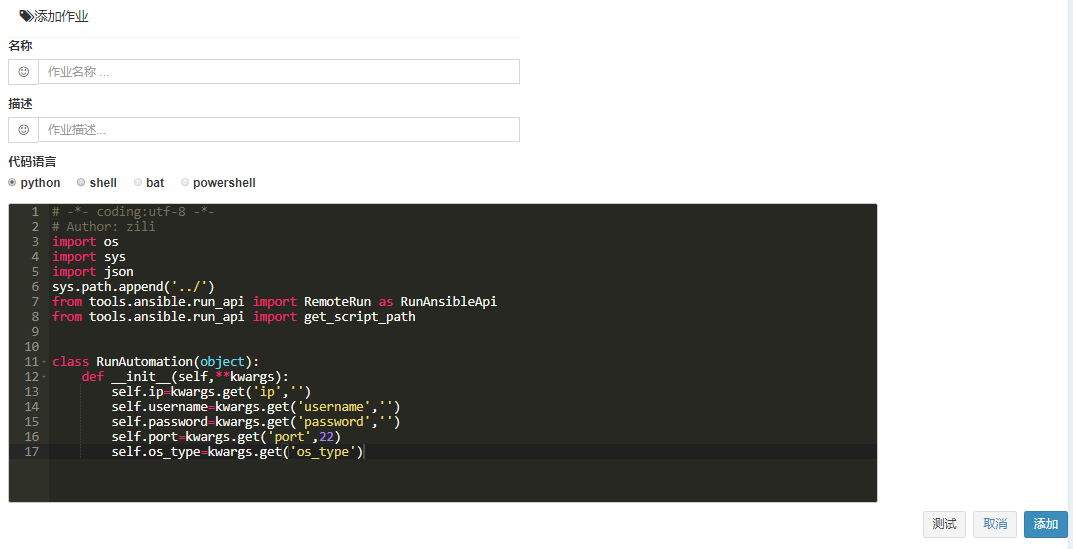
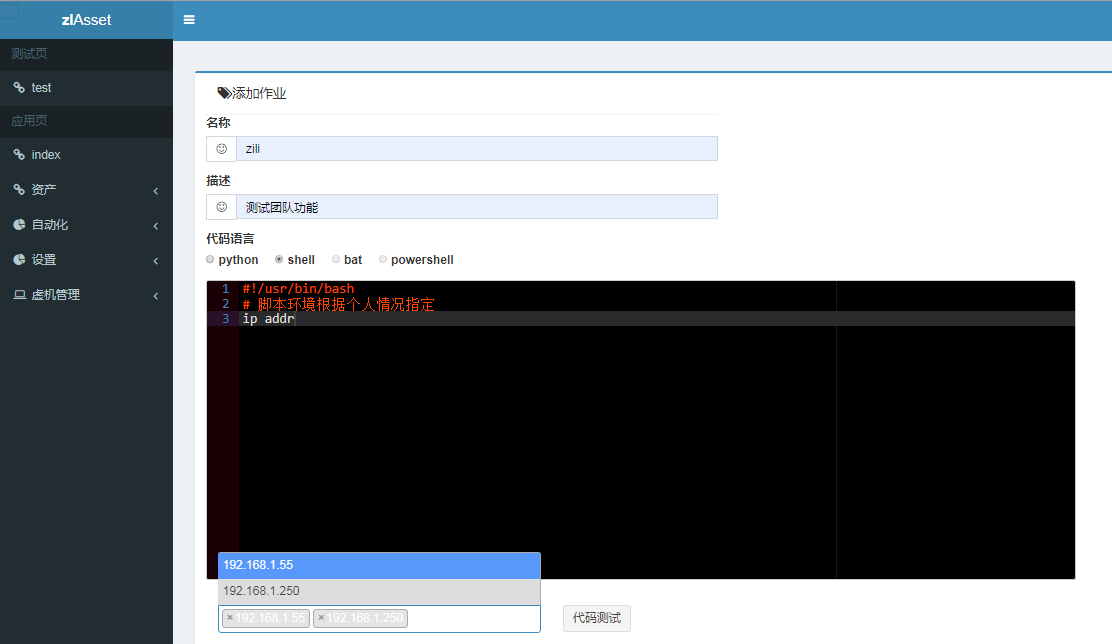
脚本测试-完成

diff --git a/zlAsset/templates/automation/test_job.html b/zlAsset/templates/automation/test_job.html
@@ -7,91 +7,42 @@
     border:0;
     background-color:transparent;
     outline: none;
-    outline: none;
+    resize:none;
     color: #666464;
     height: auto;
-    width:80%;
+    width:98%;
     height:300px;
+    max-height:400px
   }
 </style>
-<div class="col-md-12">
-    <div class="box box-primary">
-    <div class="row">
-      <form role="form" id='job_form' action="#" method="post">{% csrf_token %}
-        <!-- >基本信息 -->
-        <div class="col-md-12">
-          <div class="col-md-10">
-            <div class="modal-header">
-              <h4 class="modal-title"><i class="fa fa-tags"></i>脚本测试</h4>
+
+<div class="col-md-10">
+  <!-- /.box-header -->
+  <div class="box-body">
+    <div class="box-group" id="#accordion">
+  {% for os in res %}
+      <div class="panel box box-primary">
+        <div class="box-header with-border">
+          <h4 class="box-title">
+            <a data-toggle="collapse" data-parent="#accordion" href=#{{ forloop.counter }}>
+            {{ os.ip }}
+            </a>
+          </h4>
+        </div>
+        <div id="{{ forloop.counter }}" class="panel-collapse collapse">
+          <div class="box-body">
+            <div >
+              <pre>
+                  <textarea readonly="readonly" class="col-md-12">{{ os.result }}</textarea>
+              </pre>
             </div>
-             <div class="form-group">
-                <label>名称</label>
-                <div class="input-group">
-                  <div class="input-group-addon">
-                    <i class="fa fa-smile-o"></i>
-                  </div>
-                  <input type="text" class="form-control" placeholder="作业名称 ..."  value="{{ job_name }}" name="name">
-                </div>
-              </div>
-
-              <div class="form-group">
-                <label>描述</label>
-                <div class="input-group">
-                  <div class="input-group-addon">
-                    <i class="fa fa-smile-o"></i>
-                  </div>
-                  <input type="text" class="form-control" placeholder="作业描述..."  value="{{ job_description }}" name="description">
-                </div>
-              </div>
-            <!--  脚本名称 -->
-              <input type="text"  style="display:none;" value="{{ job_script_name }}" name="script_name">
-
-              <div class="form-group" >
-                <label>目标主机</label>
-                <select id='host' class="form-control select2" multiple="multiple" data-placeholder="选择主机..."
-                        style="width: 100%;">
-                  <option disabled>Alabama</option>
-                  <option>Alaska</option>
-                  <option>California</option>
-                  <option>Delaware</option>
-                  <option>Delaware2</option>
-                  <option>Delaware3</option>
-                  <option>Delaware4</option>
-                  <option>Delaware5</option>
-                  <option>Delaware6</option>
-                  <option>Delaware7</option>
-                  <option>Delaware8</option>
-                  <option>Delaware9</option>
-                  <option>Delaware0</option>
-                  <option>Delaware11</option>
-                  <option>Delaware12</option>
-                  <option>Delaware13</option>
-
-                  <option>Tennessee</option>
-                  <option>Texas</option>
-                  <option>Washington</option>
-                </select>
-                <button class="btn btn-default" onclick='return job_run();'><a href="{% url 'atuomation_index' %}" target="_self" >执行</a></button>
-              </div>
           </div>
-      <!--代码-->
-              <div >
-                <label><font color="red">取消前请复制脚本内容,否则,将丢失</font></label><p>
-                <pre>
-                    <textarea id='script_content' name="script_content" form='job_form' readonly="readonly" class="col-md-10">{{ job_script_content }}</textarea>
-                </pre>
-              </div>
         </div>
-        <div class="modal-footer">
-            <button class="btn btn-default"><a href="{% url 'atuomation_index' %}" target="_self">取消</a></button>
-            <input type="submit" value="创建" name="create" class="btn btn-primary" >
-        </div>
-      </form>
-
-      <!-- <pre style="display:none;"> -->
-
+      </div>
     </div>
-    </div>
+  {% endfor %}
+
+  </div>
 </div>
 
 {% endblock %}

diff --git a/zlAsset/templates/automation/job_detail.html b/zlAsset/templates/automation/job_detail.html
@@ -8,16 +8,17 @@
     border:0;
     background-color:transparent;
     outline: none;
-    outline: none;
+    resize:none;
     color: #666464;
     height: auto;
-    width:80%;
+    width:98%;
     height:300px;
+    max-height:400px
   }
 </style>
 <div >
   <pre>
-      <textarea style='height:600px; max-height:600px; width:98%;' name="script_content" readonly="readonly" class="col-md-12">{{ jobs_data.script_content }}</textarea>
+      <textarea name="script_content" readonly="readonly" class="col-md-12">{{ jobs_data.script_content }}</textarea>
   </pre>
 </div>
 

diff --git a/zlAsset/apps/automation/views.py b/zlAsset/apps/automation/views.py
@@ -39,7 +39,6 @@ def add_job(request):
         logger.error('DB search error')
 @login_required(login_url='/login/')
 def add_job_action(request):
-    logger.info("一个更萌的请求过来了。。。。")
     if request.method == 'POST':
         name=request.POST['name']
         description=request.POST['description']
@@ -53,7 +52,7 @@ def add_job_action(request):
         if language == 'powershell':
             postfix = '.ps1'
         script_content=request.POST['script_content']
-        job_script_path=script_path()+'automation/jobs/test/'
+        job_script_path=script_path()+'automation/jobs/'
         # 随机22个字符串
         random_name = ''.join(random.choice(string.ascii_letters + string.digits) for _ in range(22))
         script_name = random_name+language+postfix
@@ -89,7 +88,6 @@ def add_job_action(request):
 
 
 def test_job(request):
-    print('tttttttttttttttttttt=================')
     if request.method == 'POST':
         name=request.POST['name']
         description=request.POST['description']
@@ -104,25 +102,30 @@ def test_job(request):
             postfix = '.ps1'
         host=request.POST.getlist('host')
 
-        print(name)
-        print(description)
-        print(language)
-        print(host)
-
-
         script_content=request.POST['script_content']
         job_script_path=script_path()+'automation/jobs/test/'
          # 随机22个字符串
-        random_name = ''.join(random.choice(string.ascii_letters + string.digits) for _ in range(22))
+        random_name = ''.join(random.choice(string.ascii_letters + string.digits) for _ in range(3))
         script_name = random_name+language+postfix
-
-        with open(job_script_path+script_name,'w+') as f:
+        with open(job_script_path+script_name,'w+', encoding="utf-8") as f:
+            script_content=script_content.replace('\r\n', '\n')
             f.writelines(script_content)
+
+        res=list()
+        for ip in host:
+            cert_data=osCert.objects.get(ip=ip)
+            test_conn=RunAutomation(
+                ip = cert_data.ip,
+                username = cert_data.username,
+                password = bytes.decode(base64.b64decode(bytes(cert_data.password,encoding='utf-8'))),
+                os_type = cert_data.os_type,
+                port=cert_data.port
+                )
+            jobs_data = test_conn.test_job(script_name)
+            jobs_data['ip'] =ip
+            res.append(jobs_data)
         return render(request,'automation/test_job.html',{
-            'job_name':name,
-            'job_description':description,
-            'job_script_content':script_content,
-            'job_script_name':script_name
+            'res':res,
         })
     else:
         jobs_data =Jobs.objects.all()

diff --git a/zlAsset/apps/tools/ansible/run_api.py b/zlAsset/apps/tools/ansible/run_api.py
@@ -4,6 +4,10 @@ import os
 from .ansible_api import MyApi as AnsibleApi
 # from ansible_api import MyApi as AnsibleApi #if __name__使用
 
+import logging
+logger = logging.getLogger(__name__)
+
+
 class RemoteRun(object):
     global script_path
     script_path = os.path.dirname(__file__) + '/script/'
@@ -14,7 +18,7 @@ class RemoteRun(object):
         self.port=kwargs.get('port',22)
         self.os_type=kwargs.get('os_type')
         self.time_out = kwargs.get('time_out',10)
-        self.run_user = kwargs.get('become_user','test')
+        self.run_user = kwargs.get('become_user','root')
 
         if not self.os_type :
             return 'OS TYPE 未配置'
@@ -48,7 +52,6 @@ class RemoteRun(object):
                 ansible_run.run(self.ip, 'shell', 'source /etc/profile;'+cmd +
                     ' chdir='+chdir if chdir else cmd )
                 data=ansible_run.get_result()
-                print(self.sources)
 
                 success_data=data['success']
                 failed_data=data['failed']
@@ -79,6 +82,8 @@ class RemoteRun(object):
                     become_user=self.run_user,
                     timeout=self.time_out,
                 )
+            logger.info(str(script_path+script))
+            print(script_path+script)
             ansible_run.run(self.ip, 'script', script_path+script + ' ' + options)
             data=ansible_run.get_result()
 
@@ -91,15 +96,18 @@ class RemoteRun(object):
             if len(failed_data) > 0:
                 return_data['status']='failed'
                 return_data['result']=failed_data[self.ip]['script']
+                logger.error(self.ip + str(return_data))
                 return return_data
             if len(unreachable_data) >0:
 
                 return_data['status']='unreachable'
                 return_data['result']=unreachable_data[self.ip]['script']
+                logger.error(self.ip + str(return_data))
                 return return_data
             else:
                 return_data['status']='success'
                 return_data['result']=success_data[self.ip]['script']
+                logger.info(self.ip + str(return_data))
                 return return_data
         else:
             pass

diff --git a/zlAsset/apps/automation/run_api.py b/zlAsset/apps/automation/run_api.py
@@ -28,6 +28,13 @@ class RunAutomation(object):
         cmd = cmd
         data = self.ansible_run.run_cmd(cmd)
         return data
+
+    def test_job(self,name):
+
+        data = self.ansible_run.run_script('automation/jobs/test/'+name,'')
+
+
+        return data
     # def script_test(self):
     #     data = self.ansible_run.run_script('operSystem/test.sh','')
     #     return data
@@ -40,7 +47,12 @@ def script_path():
     p = get_script_path()
     return p
 if __name__ == '__main__':
-    l = RunAutomation(ip='192.168.1.55',username='test',password='centos',port='22',os_type='linux')
-    cmd="ip addr"
-    data = l.command(str(cmd))
-    print(data)
+    l = RunAutomation(ip='192.168.1.55',username='root',password='centos',port='22',os_type='linux')
+    # cmd="hostname"
+    # data = l.command(cmd)
+    # print(data)
+    # import time
+    # time.sleep(3)
+    print('==================')
+    data2 = l.test_job('zili.sh')
+    print(data2)

diff --git a/zlAsset/zlAsset/settings.py b/zlAsset/zlAsset/settings.py
@@ -179,9 +179,8 @@ STATICFILES_DIRS = (os.path.join(BASE_DIR, 'static'),)
 
 
 
-# 日子
+# 日志
 BASE_LOG_DIR = os.path.join(BASE_DIR, "log")
-print(BASE_LOG_DIR)
 LOGGING = {
     'version': 1,  # 保留字
     'disable_existing_loggers': False,  # 禁用已经存在的logger实例
